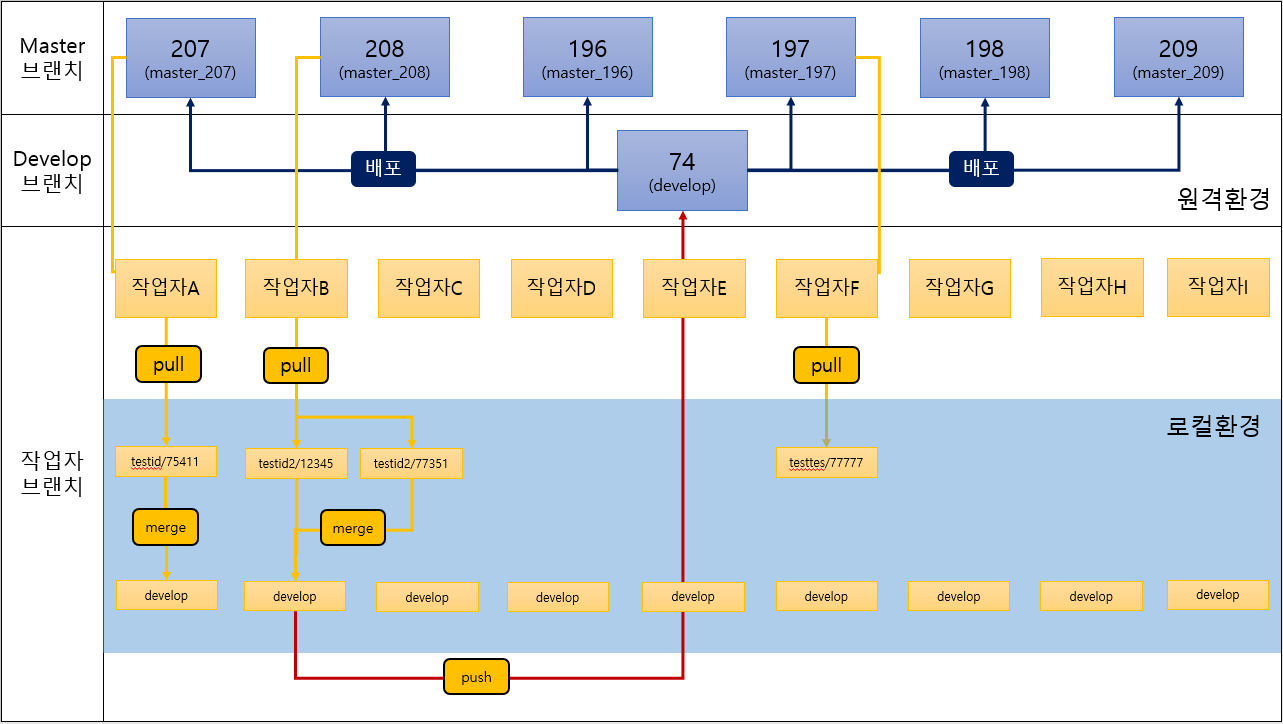
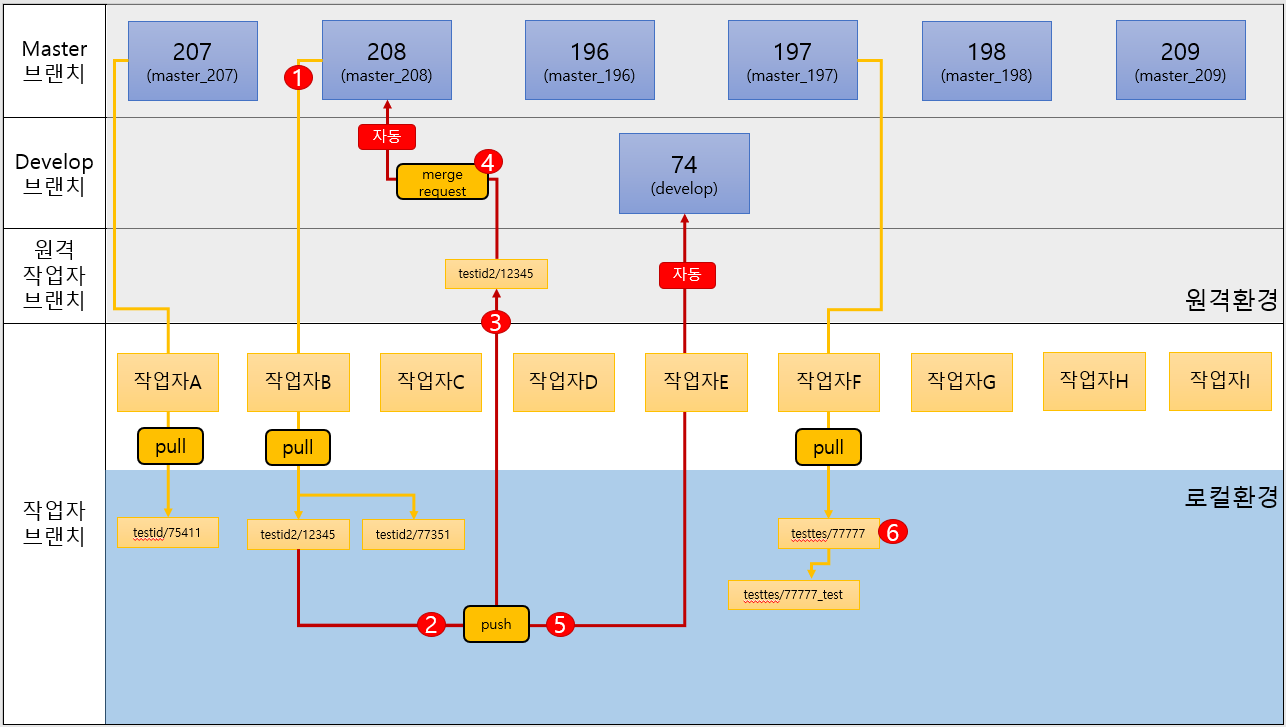
[71412] 깃 업무 플로우 테스트 > 테스트중입니다

diff --git a/git-flow.md b/git-flow.md
@@ -1,19 +1,32 @@
-Git 업무 플로우
+자사 Git 업무 플로우
 ==========
 
 # 흐름도
 > ![Alt text](./img/gitflow.PNG)
 
 ## 안내사항 및 주의사항
-> 작업용 브랜치는 로컬환경으로 자유롭게 작업하실때 생성 삭제하셔도 무관합니다.
-> 로컬 develop 브랜치는 작업 후 병합하기 전 master브랜치에서 반드시 pull을 먼저 받아와 적용 후 병합합니다.
+> 작업용 브랜치는 로컬환경으로 자유롭게 작업하실때 생성 삭제하셔도 무관합니다. (원격 작업자 브랜치로 올릴 브랜치는 형식을 고정합니다.)
 > 실서버 배포(merge request)까지 완료(요청서 종료)된 브랜치는 삭제합니다.
+> commit 메세지는 [요청서번호] 요청서명 을 입력 후 작업한 내용을 간략하게 한줄에서 두줄 요약서술합니다.
 
 ## 1번
 > 작업할 파일이 있는 실서버의 master 브랜치에서 코드 받아오기
-> 주의 : 작업할 브랜치를 미리 만들고 체크아웃한 뒤 받아와야합니다.    
-> 그렇지 않으면 현재 HEAD가 가리키고있는 브랜치에 받아와집니다.
+> 작업할 작업용 브랜치를 만들고 체크아웃 후 받지 않으면 HEAD가 위치된 브랜치에 받아와집니다.
 
 ## 2번
-> 작업용 브랜치에서 작업 완료 후 테스트서버에 배포하기 전 로컬 테스트 브랜치에 병합합니다.
-> 바로 master브랜치의 내용을 작업용 브랜치에 병합하고 테스트서버에 배포해도 되지만 관리의 용이를 위해 한단계 더 거칩니다.
+> 작업용 브랜치의 작업이 끝나면 원격 작업자 브랜치(작업자아이디/요청서번호) 또+는 테스트서버 브랜치(develop)로 push합니다.
+
+## 3번
+> 작업이 끝난 브랜치를 실서버에 병합 요청을 하기 위하여 원격 서버에 업로드합니다. (원격 서버에 해당 브랜치가 생성됩니다)
+
+## 4번
+> 작업이 끝난 브랜치를 실서버에 병합요청합니다. 
+> 이때 관리자가 수락을 하면 실서버에 자동으로 수정 및 추가한 코드가 배포됩니다.
+
+## 5번
+> 작업이 끝난 브랜치를 개발브랜치에 push합니다.
+> 개발서버에서 코드의 오류와 문제점을 확인 후 3~4번을 진행합니다.
+
+## 6번
+> 작업용 브랜치입니다. 작업자아이디/요청서번호 형식으로 생성합니다.
+> 해당 브랜치에서 작업합니다.
